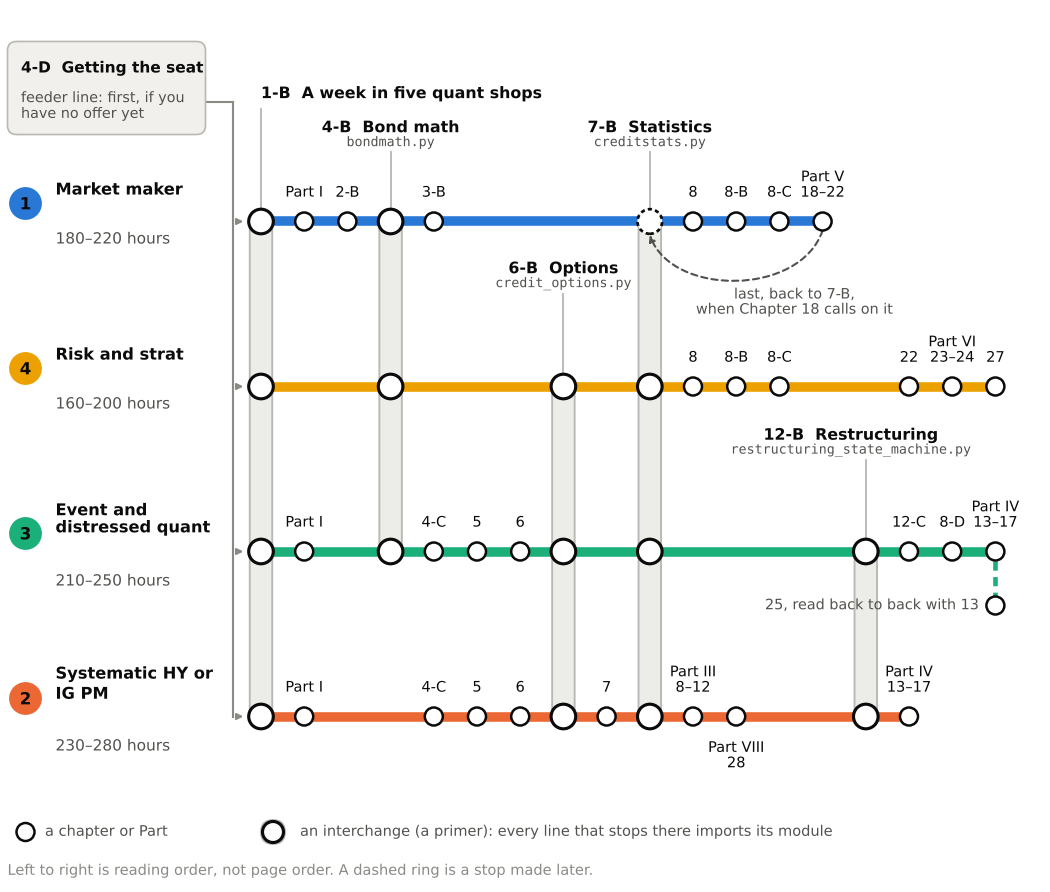
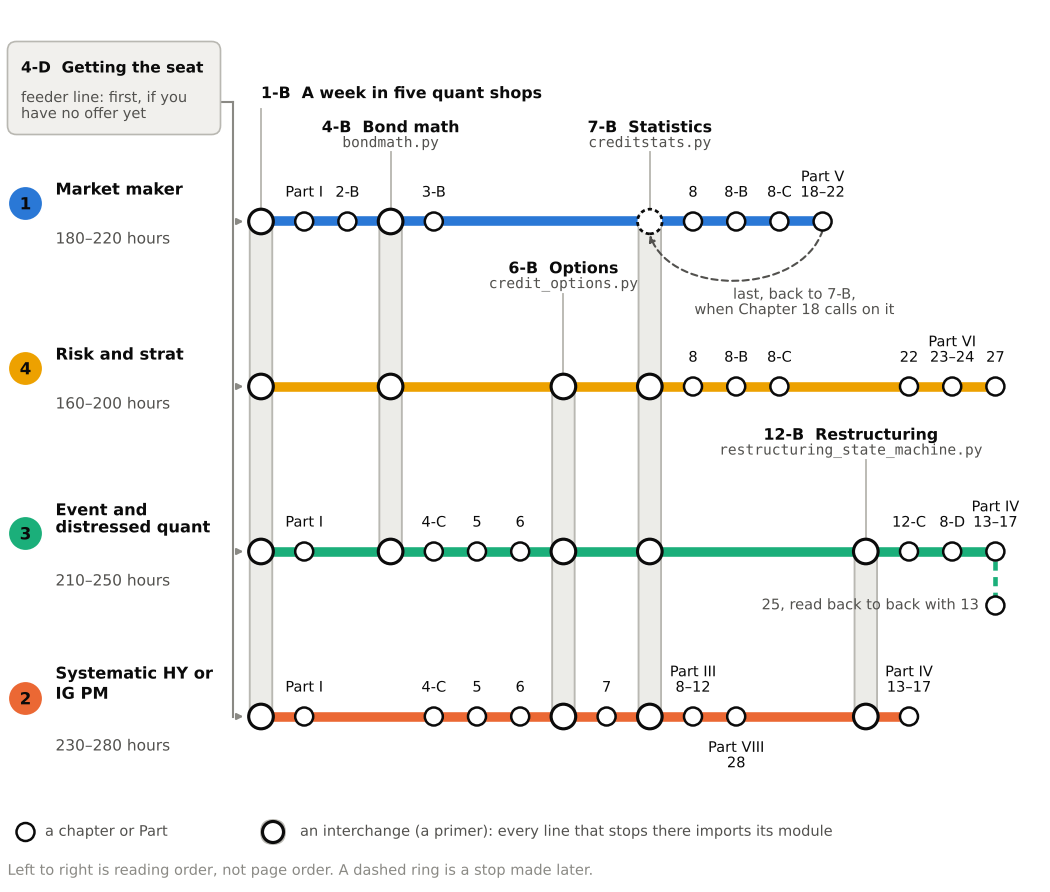
In-flight: editor-note fixes and new-chapter drafts
Claude-Session: https://claude.ai/code/session_01PHHQVL5vNoxjdDFeTkxsPq

diff --git a/tools/figures/00_02_.py b/tools/figures/00_02_.py
@@ -58,7 +58,7 @@ def arrow(ax, p0, p1, color, lw=1.0, ls="-", z=4, ms=6, alpha=1.0, style="-|>"):
                                  zorder=z, shrinkA=0, shrinkB=0, alpha=alpha))
 
 
-def badge(ax, x, y, text, color=ORANGE, r=1.55, fs=6.8, z=6):
+def badge(ax, x, y, text, color=ORANGE, r=1.55, fs=7.0, z=6):
     ax.add_patch(Circle((x, y), r, fc=color, ec="white", lw=0.8, zorder=z))
     ax.text(x, y - 0.1, text, ha="center", va="center", fontsize=fs, color=INK, fontweight="bold", zorder=z + 1)
 
@@ -83,7 +83,7 @@ def fig_dependency_map():
     for k, (yc, name, mod) in primers.items():
         rbox(ax, PX, yc - PH / 2, PW, PH, fc=BLUE_TINT, ec=BLUE, lw=1.2)
         ax.text(PX + 1.6, yc + 2.4, name, fontsize=7.8, fontweight="bold", color=INK, va="center")
-        ax.text(PX + 1.6, yc - 2.3, mod, fontsize=6.6, family=MONO, color=INK_2, va="center")
+        ax.text(PX + 1.6, yc - 2.3, mod, fontsize=7.0, family=MONO, color=INK_2, va="center")
 
     # Chapter 1-B: the first station of the RV path, above 4-B
     ybx = 94.6
@@ -118,8 +118,8 @@ def fig_dependency_map():
         rbox(ax, CX, yc - CH / 2, CW, CH, fc="white", ec=INK_2 if heavy else NEUTRAL, lw=1.4 if heavy else 0.9)
         ax.text(CX + 1.3, yc, lab, fontsize=7.8, fontweight="bold" if heavy else "normal", color=INK, va="center")
         if mod:
-            ax.text(CX + 10.4, yc - 0.1, mod, fontsize=6.9, family=MONO, color=INK_2, va="center")
-        ax.text(CX + CW - 1.0, yc, part, fontsize=6.8, color=MUTED, va="center", ha="right")
+            ax.text(CX + 10.4, yc - 0.1, mod, fontsize=7.0, family=MONO, color=INK_2, va="center")
+        ax.text(CX + CW - 1.0, yc, part, fontsize=7.0, color=MUTED, va="center", ha="right")
 
     # --- first-generation imports: primer -> chapters (table of section 0.2) ---------------------
     imports = {
@@ -156,7 +156,7 @@ def fig_dependency_map():
     badge(ax, PX + PW, primers["4B"][0] + 4.3, "2")
     ax.text(RX + 3.0, Y["c5"], "RV path\n(section 0.9)", fontsize=7.4, color=INK_2, va="center",
             linespacing=1.15)
-    ax.text(CX + CW + 2.0, Y["c1317"], "every chapter of\nPart IV sits behind 12-B", fontsize=7.0, color=MUTED,
+    ax.text(CX + CW + 2.0, Y["c1317"], "every chapter of\nPart IV sits behind 12-B", fontsize=7.2, color=MUTED,
             va="center", linespacing=1.15)
 
     # --- second generation: module sits on a module (violet dashed, in the gaps) ------------------
@@ -166,8 +166,6 @@ def fig_dependency_map():
         ya = Y[a] - CH / 2 - 0.15 if down else Y[a] + CH / 2 + 0.15
         yb = Y[b] + CH / 2 + 0.15 if down else Y[b] - CH / 2 - 0.15
         arrow(ax, (gx, ya), (gx, yb), VIOLET, lw=1.3, ls=(0, (2, 1.4)), ms=5.5, z=5)
-    ax.text(CX + CW + 1.8, (Y["c8"] + Y["c8D"]) / 2, "§8.4 rulers", fontsize=6.6, color=VIOLET, va="center",
-            alpha=0)  # (kept off: the legend carries the meaning)
     # 3-B <- section 3B.4
     rbox(ax, 24.0, Y["c3B"] - 2.7, 20.0, 5.4, fc=GREY_TINT, ec=NEUTRAL, lw=0.8)
     ax.text(25.2, Y["c3B"], "§3B.4 contract clocks", fontsize=7.0, color=INK_2, va="center")
@@ -177,7 +175,7 @@ def fig_dependency_map():
     lx = CX + CW + 2.0
     items = [
         (BLUE, "-", 1.5, "a chapter imports\na primer's module"),
-        (VIOLET, (0, (2, 1.4)), 1.5, "a module imports\nanother chapter's\nmodule"),
+        (VIOLET, (0, (2, 1.4)), 1.5, "a module builds on\nother work in the book\n(second generation)"),
         (ORANGE, "-", 1.0, "the RV path, in order\n(thinner)"),
     ]
     yy = 43.0
@@ -218,7 +216,7 @@ def fig_volatility_tax():
             linespacing=1.15)
     ax.text(exact_mean + 0.07, 12.15, "mean\n1.05", fontsize=8.5, color=INK_2, ha="left", va="bottom",
             linespacing=1.15)
-    ax.text(3.1, 8.6, f"{below:.0%} of paths end below\n1.00 (darker bars), though\nthe average is +5%", fontsize=8.3,
+    ax.text(3.15, 9.2, f"{below:.0%} of paths end\nbelow 1.00 (darker\nbars), though the\naverage is +5%", fontsize=8.3,
             color=INK_2, va="top", ha="right", linespacing=1.2)
     ax.set_xlim(0.0, 3.2)
     ax.set_ylim(0, 14.0)
@@ -328,7 +326,7 @@ def fig_seat_paths():
     def head(col_key, level_y, name, mod, ha="center", dx=0.0):
         x = cx(IX[col_key])
         ax.text(x + dx, level_y + 0.15, name, ha=ha, va="bottom", fontsize=7.6, fontweight="bold", color=INK)
-        ax.text(x + dx, level_y + 0.15, mod, ha=ha, va="top", fontsize=6.4, family=MONO, color=INK_2)
+        ax.text(x + dx, level_y + 0.15, mod, ha=ha, va="top", fontsize=7.0, family=MONO, color=INK_2)
 
     head("4B", 4.62 + YO, "4-B  Bond math", "bondmath.py")
     head("7B", 4.62 + YO, "7-B  Statistics", "creditstats.py")
@@ -344,11 +342,11 @@ def fig_seat_paths():
     ax.plot([cx(IX["12B"])] * 2, [Ys[3] + 0.09, 2.57 + YO + 0.04], color=NEUTRAL, lw=0.9, zorder=1)
 
     # 4-D feeder
-    rbox(ax, 0.05, 4.78 + YO, 1.32, 0.62, fc=GREY_TINT, ec=NEUTRAL, lw=0.8, r=0.06)
+    rbox(ax, 0.05, 4.78 + YO, 1.42, 0.62, fc=GREY_TINT, ec=NEUTRAL, lw=0.8, r=0.06)
     ax.text(0.14, 5.22 + YO, "4-D  Getting the seat", fontsize=7.4, fontweight="bold", color=INK, va="center")
-    ax.text(0.14, 4.97 + YO, "feeder line: first, if you\nhave no offer yet", fontsize=6.9, color=INK_2, va="center",
+    ax.text(0.14, 4.97 + YO, "feeder line: first, if you\nhave no offer yet", fontsize=7.0, color=INK_2, va="center",
             linespacing=1.1)
-    ax.plot([1.37, 1.55], [5.0 + YO, 5.0 + YO], color=MUTED, lw=1.0, zorder=1)
+    ax.plot([1.47, 1.55], [5.0 + YO, 5.0 + YO], color=MUTED, lw=1.0, zorder=1)
     ax.plot([1.55, 1.55], [5.0 + YO, Ys[2]], color=MUTED, lw=1.0, zorder=1)
 
     # MM: the return to 7-B, drawn as a dashed arc under the line
@@ -359,12 +357,12 @@ def fig_seat_paths():
     ax.add_patch(FancyArrowPatch(path=path, arrowstyle="-|>", mutation_scale=6, color=INK_2, lw=1.0,
                                  linestyle=(0, (3, 2)), zorder=4, shrinkA=0, shrinkB=0))
     ax.text(cx(12) + 0.1, y1 - 0.43, "last, back to 7-B,\nwhen Chapter 18 calls on it", ha="center", va="top",
-            fontsize=6.9, color=INK_2, linespacing=1.1)
+            fontsize=7.0, color=INK_2, linespacing=1.1)
     # DQ: Chapter 25 read back to back with 13
     y3 = Ys[3]
     ax.plot([cx(17), cx(17)], [y3 - 0.06, y3 - 0.33], color=AQUA, lw=2.2, ls=(0, (2, 1.4)), zorder=2)
     ax.add_patch(Circle((cx(17), y3 - 0.36), 0.06, fc="white", ec=INK, lw=1.2, zorder=5))
-    ax.text(cx(17) - 0.11, y3 - 0.36, "25, read back to back with 13", ha="right", va="center", fontsize=6.9,
+    ax.text(cx(17) - 0.11, y3 - 0.36, "25, read back to back with 13", ha="right", va="center", fontsize=7.0,
             color=INK_2)
 
     # key
@@ -436,13 +434,13 @@ def fig_ninety_days():
         else:
             ax.add_patch(Rectangle((a + 0.004, yspine - sh / 2), b - a - 0.008, sh, fc="white", ec=MUTED, lw=0.6,
                                    hatch="/////", zorder=2))
-    ax.text(X(0), yspine - 0.15, "day 0: Sun 28 Jun", fontsize=6.9, color=INK_2, va="top", ha="left")
-    ax.text(X(86) - 0.04, yspine - 0.15, "day 86: Tue 22 Sep,\nfirst day on the desk", fontsize=6.9, color=INK_2, va="top",
+    ax.text(X(0), yspine - 0.15, "day 0: Sun 28 Jun", fontsize=7.0, color=INK_2, va="top", ha="left")
+    ax.text(X(86) - 0.04, yspine - 0.15, "day 86: Tue 22 Sep,\nfirst day on the desk", fontsize=7.0, color=INK_2, va="top",
             ha="right", linespacing=1.1)
-    ax.text(X(86) + 0.06, yspine - 0.15, "days 87\u201390:\nfunded by sleep", fontsize=6.9, color=INK_2, va="top",
+    ax.text(X(86) + 0.06, yspine - 0.15, "days 87\u201390:\nfunded by sleep", fontsize=7.0, color=INK_2, va="top",
             ha="left", linespacing=1.1)
     arrow(ax, (X(90) + 0.07, yspine), (X(90) + 0.62, yspine), INK_2, lw=1.2, ms=8, z=3)
-    ax.text(X(90) + 0.08, yspine + 0.1, "\u00a73B.8:\nthe ninety\ndays after", fontsize=6.9, color=INK_2,
+    ax.text(X(90) + 0.08, yspine + 0.1, "\u00a73B.8:\nthe ninety\ndays after", fontsize=7.0, color=INK_2,
             va="bottom", ha="left", linespacing=1.1)
 
     # checkpoints on the spine
@@ -460,13 +458,13 @@ def fig_ninety_days():
     ax.plot([sx], [yspine], marker="*", markersize=11, color=INK, markeredgecolor="white", markeredgewidth=0.6,
             zorder=6)
     ax.plot([sx, sx], [yspine + 0.1, yspine + 0.52], color=INK_2, lw=0.8, zorder=5)
-    ax.text(sx + 0.02, yspine + 0.55, "day 86: mock interview,\nor a mock morning\nif you have the seat", fontsize=6.9,
+    ax.text(sx + 0.02, yspine + 0.55, "ends the last stretch:\nmock interview, or a\nmock morning if you\nhave the seat", fontsize=7.0,
             color=INK, ha="right", va="bottom", linespacing=1.1, fontweight="bold")
 
     # projects and checkpoints below the line
     low_top = 1.70
     l1 = ["Edge Ledger rows drafted (\u00a73.5)"]
-    l2 = ["Project 1: TRACE panel, Roll spread", "Project 6: DD-to-PD map"]
+    l2 = ["Project 1: TRACE, Roll spread", "Project 6: DD-to-PD map"]
     l3 = ["Project 2: Priming Risk Score", "Project 4: RFQ quoting game", "4-D's sixty tagged problems"]
     for (d0, d1, _, _), items in zip(wins, (l1, l2, l3)):
         for r, txt in enumerate(items):
@@ -494,7 +492,7 @@ def fig_hand_history():
     # left: Theo's July, from the rows of the chapter's hand_history listing (checked rows only)
     buckets = [(0.5, 7, 10), (0.7, 2, 3), (0.9, 9, 12)]       # stated confidence, right, checked
     ax.plot([0.4, 1.0], [0.4, 1.0], color=NEUTRAL, lw=1.2, ls=(0, (4, 3)), zorder=1)
-    ax.text(0.405, 0.46, "right as often\nas he said", fontsize=8, color=MUTED, rotation=0, va="bottom", ha="left",
+    ax.text(0.405, 0.37, "dashed: right as often\nas he said", fontsize=8, color=MUTED, rotation=0, va="top", ha="left",
             linespacing=1.1)
     for conf, k, n in buckets:
         p = k / n
@@ -529,6 +527,7 @@ def fig_hand_history():
     bx.axhline(p, color=BLUE, lw=0.9, ls=(0, (1.5, 2.5)), zorder=2)
     bx.axhline(0.60, color=INK_2, lw=0.9, ls=(0, (4, 3)), zorder=2)
     bx.text(158, 0.60 - 0.012, "0.60", fontsize=8, color=INK_2, ha="right", va="top")
+    bx.text(158, p + 0.012, "hit rate 0.72", fontsize=8, color=INK_2, ha="right", va="bottom")
     for nn, tag in ((25, "a month"), (100, "a quarter")):
         h = 2 * np.sqrt(p * (1 - p) / nn)
         bx.plot([nn, nn], [p - h, p + h], color=INK, lw=1.2, zorder=4)

diff --git a/book_src/13_ch13b_the_autopsy_room_lmt_docket_diaries.md b/book_src/13_ch13b_the_autopsy_room_lmt_docket_diaries.md
@@ -24,9 +24,9 @@ Kaz Lind pulled the Incora folder toward them, opened it to the first page, and 
 
 Theo wrote the question at the top of his pad, because Ines would ask it again on Monday: *can a ruling be a feature, and can an exclusion be priced on the day the deal closes?*
 
-By the end of this chapter you will be able to read a docket as a time series rather than a story; to label a ruling by its direction for the excluded holder and give it a log-odds jump you can defend; to say, for each of twelve real liability-management cases from 2020 to 2026, which Priming Risk Score features would have fired and when, and what the excluded holder's markout was; to recognize the pod pair hiding inside every one of them (long the likely participant, short the likely excluded) and explain why that pair's P&L is, in the end, the excluded leg's markout; and to write the litigation map down as a Markov chain whose transition matrix jumps on ruling dates. You will also know why most of this is less certain than it looks, which is the part the twelve folders teach best.
+By the end of this chapter you will be able to read a docket as a time series rather than a story; label a ruling by its direction for the excluded holder and give it a log-odds jump; say, for twelve real cases from 2020 to 2026, which Priming Risk Score features would have fired and what the excluded holder's markout was; see why a pod's pair inside each case earns exactly that markout; and write the litigation map as a Markov chain whose transitions jump on ruling dates. You will also see why all of it is less certain than it looks.
 
-> **Prerequisites.** Chapter 12-B §12B.3 (thresholds) and §12B.4 (the out-of-court menu as transitions); Chapter 13 §13.3.1 (Serta in the formula), §13.5 (co-ops, and the Pair Book scene that opened PB-08), §13.8 (the Priming Risk Score) and §13.9 (the Incora board and the scoreboard table); Chapter 14 §14.4 (recovery as a mixture over coalition membership), §14.6 (courts as a regime variable) and §14.7 (the Hamilton filter). This chapter retells none of those cases. Serta, Lumen, Incora, Saks, Trinseo, Robertshaw and Hertz each have a home elsewhere, and here they appear only as dated entries plus two closing lines.
+> **Prerequisites.** Chapter 12-B §12B.3 (thresholds) and §12B.4 (the out-of-court menu as transitions); Chapter 13 §13.3.1 (Serta in the formula), §13.5 (co-ops, and the Pair Book scene that opened PB-08), §13.8 (the Priming Risk Score) and §13.9 (the Incora board and the scoreboard table); Chapter 14 §14.4 (recovery as a mixture over coalition membership), §14.6 (courts as a regime variable) and §14.7 (the Hamilton filter). Cases told elsewhere appear here only as dated entries and closing lines.
 
 ## 13B.1 How to Read a Docket
 
@@ -36,39 +36,35 @@ Theo pulled ROBO's 4,100 rows up on the wall screen and scrolled, slowly, so tha
 
 "'For this occasion,'" said Theo. "A lawyer from out of state, admitted for one case. Incora has dozens of them. Each one files a motion, gets an order, and somebody files a certificate saying everyone was served with both." He stopped scrolling. "Most of a docket is the court proving to itself that it told everyone."
 
-He walked Kaz through where dockets live, because the twelve folders came from five different places. Federal cases, including every US bankruptcy here, sit on PACER, which charges by the page and has opinions about automated readers. New York's commercial cases, where Boardriders fought over "open market purchase," sit on the state's own electronic filing system. English judgments, Thames Water's among them, are published by the National Archives as Find Case Law. And Altice France's most important "rulings" were not made by a court at all. They were made by the EMEA Credit Derivatives Determinations Committee, which publishes its decisions as PDFs on its own website.
+The twelve folders came from five places. Federal cases, every US bankruptcy here included, sit on PACER, which charges by the page. New York's commercial cases sit on the state's own filing system. English judgments are published by the National Archives as Find Case Law. And Altice France's most important "rulings" came from no court at all, but from the EMEA Credit Derivatives Determinations Committee, which posts its decisions as PDFs.
 
-Then he pulled up one entry, the Incora bankruptcy judge's oral ruling of 10 July 2024, and showed Kaz that an entry has four clocks on it. It was *filed* when someone delivered paper to the court. It was *entered* when the clerk put it on the docket. It was *argued* on the hearing day. It was *decided* when the judge said or signed the decision, and for Incora those were two different days: an oral ruling from the bench on 10 July 2024 and a written report and recommendation on 17 January 2025. Serta had the same split a year earlier: a bench ruling for the borrower on 28 March 2023, and a written opinion after trial that June.
+Then he showed Kaz that an entry has four clocks on it. It is *filed* when paper reaches the court, *entered* when the clerk dockets it, *argued* on the hearing day, and *decided* when the judge says or signs the decision. For Incora, decided meant two days: an oral ruling from the bench on 10 July 2024 and a written report and recommendation on 17 January 2025. Serta had the same split: a bench ruling for the borrower on 28 March 2023, a written opinion after trial that June.
 
 "Which one is the event?" said Kaz.
 
 "The first moment the market could know," said Theo. "Sometimes that's a reporter in the courtroom. Sometimes it's a law firm's client alert the next morning. Almost never is it the entry date."
 
-Then he added the column ROBO had not built: *direction*. The desk borrows its convention from the courts dossier behind this chapter. A ruling scores $+1$ if it favours the excluded or non-consenting holders, $-1$ if it favours the majority, the debtor or the people being released, and $0$ if it is mixed. Judge Isgur's 10 July 2024 ruling for the Incora minority is $+1$. The district court's reversal of 8 December 2025 is $-1$. The English Court of Appeal's Thames Water judgment, which upheld the plan but refused any "hard-edged rule" that out-of-the-money creditors could simply be ignored, is $0$.
+Then he added the column ROBO had not built: *direction*. A ruling scores $+1$ if it favours the excluded or non-consenting holders, $-1$ if it favours the majority, the debtor or the people being released, and $0$ if it is mixed. Judge Isgur's 10 July 2024 ruling for the Incora minority is $+1$; the district court's reversal of 8 December 2025 is $-1$.
 
 "So the label is one number per ruling," said Kaz. "Then what's the feature?"
 
 "The feature is what the ruling does to the odds," said Ines, from the door.
 
-> **Math, Gently.** *Odds, log-odds, and a ruling as a jump.* A probability of 0.5 is odds of 1 to 1; 0.8 is odds of 4 to 1. The log-odds, or *logit*, is the natural log of the odds: $\operatorname{logit}(p) = \ln\big(p/(1-p)\big)$. At 0.5 it is 0; at 0.8 it is about 1.39; it runs from minus infinity to plus infinity while $p$ stays between 0 and 1. That is why the desk adds a ruling's effect on this scale and not on probability itself: you can add any number to a log-odds and convert back, $p = 1/(1+e^{-\text{logit}})$, and you will always get a legal probability. Add 0.3 to a probability of 0.9 and you get nonsense. Picture a dial with no end stops, wired to a needle that can only move between 0 and 1; turning the dial a click moves the needle a lot near the middle and barely at all near the ends. *A tiny worked number.* Suppose that, before the Fifth Circuit's *Serta* opinion of 31 December 2024, a reader gives the excluded lenders an even chance in an "open market purchase" dispute: $p = 0.5$, log-odds 0. The reader then reads the opinion and assigns it a jump of $+1.0$ for the excluded side *(illustrative)*. The new log-odds is 1.0 and the new probability is $1/(1+e^{-1}) \approx 0.73$. The same click from a starting point of 0.9 lands at about 0.96. Written for the desk's variable $\theta_w$, the chance that a priming deal under wording $w$ *survives* challenge, the same ruling is a jump of $-1.0$, from 0.5 to 0.27. The full version, with one jump per ruling and per wording class, is §14.6.1.
+> **Math, Gently.** *Odds, log-odds, and a ruling as a jump.* A probability of 0.5 is odds of 1 to 1; 0.8 is odds of 4 to 1. The log-odds, or *logit*, is the natural log of the odds: $\operatorname{logit}(p) = \ln\big(p/(1-p)\big)$. At 0.5 it is 0; at 0.8 it is about 1.39; it runs from minus infinity to plus infinity while $p$ stays between 0 and 1. So the desk adds a ruling's effect on this scale: any number added to a log-odds converts back, through $p = 1/(1+e^{-\text{logit}})$, to a legal probability, whereas 0.3 added to a probability of 0.9 is nonsense. Picture a dial with no end stops wired to a needle that moves only between 0 and 1: a click moves the needle a lot near the middle and barely at all near the ends. *A tiny worked number.* Before the Fifth Circuit's *Serta* opinion of 31 December 2024, a reader gives excluded lenders in an "open market purchase" dispute an even chance: log-odds 0. Having read the opinion, the reader assigns it a jump of $+1.0$ for the excluded side *(illustrative)*. The new log-odds is 1.0 and the new probability is $1/(1+e^{-1}) \approx 0.73$. The same click from a starting point of 0.9 lands at about 0.96. Written for the desk's variable $\theta_w$, the chance that a priming deal under wording $w$ *survives* challenge, the same ruling is a jump of $-1.0$, from 0.5 to 0.27. The full version, with one jump per ruling and per wording class, is §14.6.1.
 
-The jump is a judgment, and the folder records whose judgment it is and on what day. Nineteen rulings are not enough to fit anything, which is the subject of §13B.7. They are enough to keep a disciplined diary.
+The jump is a judgment, and the folder records whose and on what day. Nineteen rulings are too few to fit anything (§13B.7) and enough to keep a disciplined diary.
 
-That left the two lines Ines wanted at the bottom of every folder. Theo wrote them on the whiteboard as headings, and they close each diary below.
+That left the two lines Ines wanted at the bottom of every folder. The first is *PRS flags*: which features of Chapter 13's Priming Risk Score would have fired, and when. Some are in the §13.2.1 vector already (`loan_px`, `runway_months`, `holder_hhi`, `coop_reported`, `unsub_capacity_pct_ev`, `buyback_exception`, `integration_gap`); the folders propose new ones as they go. The second is *Excluded markout*: what happened to the price of the tranche left outside the door, against the tranche that went through it.
 
-The first is *PRS flags*: which features of Chapter 13's Priming Risk Score would have fired, and on what date. Some are already in the §13.2.1 vector: `loan_px`, `runway_months`, `holder_hhi`, `coop_reported`, `unsub_capacity_pct_ev`, `buyback_exception`, `sponsor_repeat_lme`, `integration_gap`. Some are new, and the folders will propose them as they go.
+> **Math, Gently.** *A markout is an average of what happened next, given who you were.* Ines calls a markout "the hand history": the price some time after a trade minus the price at the trade, averaged over many trades. Here the "trade" is a liability-management deal, and what sorts the hands is participation status. Write $P_{t_0}$ for the excluded tranche's price on the last day before the deal became knowable and $P_{t_0+h}$ for its price $h$ later. The excluded markout is the conditional expectation $M^{\text{excl}}(h) = \mathbb{E}\big[P_{t_0+h} - P_{t_0} \mid \text{excluded}\big]$, and the participant's is the same with the condition flipped. *A tiny worked number.* Two holders own the same first-lien loan at 70 *(illustrative)*. One is invited, swaps into super-priority paper and marks 90 a month later; the other is not, and marks 40. Same loan, same lien, same company: markouts of $+20$ and $-30$, a coalition gap of 50 points. Twelve folders give no expectation, only a dozen dated points over different horizons, mostly vendor quotes rather than prints. The full version, for dealer trades, is Chapter 2-B and Chapter 18.
 
-The second is *Excluded markout*: what happened to the price of the tranche left outside the door, set against the tranche that went through it.
-
-> **Math, Gently.** *A markout is an average of what happened next, given who you were.* Ines calls a markout "the hand history." For a trade, it is the price some time after the trade minus the price at the trade, averaged over many trades: the question it answers is whether the other side knew something. Here the "trade" is a liability-management deal, and the thing that sorts the hands is participation status. Write $P_{t_0}$ for the excluded tranche's price on the last day before the deal became knowable and $P_{t_0+h}$ for its price $h$ later. The excluded markout is the conditional expectation $M^{\text{excl}}(h) = \mathbb{E}\big[P_{t_0+h} - P_{t_0} \mid \text{excluded}\big]$, and the participant's is the same with the condition flipped. *A tiny worked number.* Two holders own the same first-lien loan at 70 *(illustrative)*. One is invited, swaps into super-priority paper and marks 90 a month later; the other is not, and marks 40. Same loan, same lien, same company: markouts of $+20$ and $-30$, a coalition gap of 50 points. Twelve folders do not give an expectation. They give a dozen dated points, from different seats, measured over different horizons, mostly from vendor quotes rather than prints. The full version, for dealer trades, is Chapter 2-B and Chapter 18.
-
-"There's one more reason to care," said Ines. "Dov's pod across town runs these as pairs." Every folder that follows names the pair a pod would have put on: long the paper likely to be inside the deal and short the paper likely to be left out, or long the operating company and short the holding company, hedged so that default and the sector cancel. Ines had read enough of the Vantress Pair Book to see the pattern before the folders proved it. Once the hedge has removed default and sector, what is left is participation status plus a judge. The pair's P&L is the excluded leg's markout, with a sign on it.
+"One more reason to care," said Ines. "Dov's pod across town runs these as pairs." Each folder names the pair a pod would have put on: long the paper likely inside the deal, short the paper likely left out, hedged so that default and the sector cancel. What the hedge leaves is participation status plus a judge, so the pair's P&L is the excluded leg's markout with a sign on it.
 
 Used in / builds on: §12B.4 (the menu of out-of-court moves, here as observed transitions), §13.2.1 and §13.8 (the PRS vector these flags come from), §14.6.1 (the log-odds jump, in full), Chapter 25 §25.6 (the docket as an event stream, where the feed ROBO built gets rebuilt properly), Appendix E (the court is a random variable with timestamps).
 
 ## 13B.2 The US Diaries, in Deal Order
 
-Mags dealt the US folders in the order the deals were done, not the order they died, because the order they were done is the order the market learned. Each one gets the same treatment: a diary of dated entries, about a page long, then three lines in Theo's hand. Ines read the entries aloud and stopped at each date to ask what the room would have done with only that much paper.
+Mags dealt the US folders in the order the deals were done, which is the order the market learned. Each gets a diary of dated entries and three lines in Theo's hand. Ines read the entries aloud and stopped at each date to ask what the room would have done with only that much paper.
 
 > **Docket Diary.** *Revlon BrandCo, 7 May 2020 to 3 April 2023.* **7 May 2020:** Revlon signs a BrandCo credit agreement with Jefferies as agent: \$815mm of new-money term loans and a \$950mm roll-up commitment that lets lenders in the 2016 term loan, a \$1.8bn facility with Citibank as agent, swap at par into new 2025 paper. Elizabeth Arden and other brand intellectual property move to BrandCo subsidiaries that do not guarantee the 2016 loan; Revlon delivers a solvency certificate. By the end of May, \$846mm of 2016 loans have rolled up. **August 2020:** the 2016 loan trades at "20 to 30" cents, in the Second Circuit's later words. **11 August 2020:** Citibank, as agent, wires about \$894mm of the 2016 lenders' principal by mistake; that story is Chapter 27's (§27.4, the Long Scene "The default field"), and it gets one sentence here. **12 August 2020:** excluded 2016 lenders authorize UMB Bank to sue, alleging insolvency "by as much as \$1.71 billion"; the complaint is never served and is dismissed without prejudice on 6 November. **15 June 2022:** Chapter 11 in the Southern District of New York. **21 February 2023:** an amended restructuring support agreement adds 2016 lenders holding over 94% of that loan. **3 April 2023:** plan confirmed. As summarized by debtor's counsel and press reports, BrandCo B-2 lenders take 82% of the equity and of a \$670mm rights offering, 2016 and B-3 lenders 18%, and non-electing 2016 and B-3 lenders share a \$56mm cash pool; the 2016 litigation is resolved "conclusively and consensually." *The Ad Hoc Group, through counsel: "We note for the record that we were not wired anything. We note it with regret."*
 >

diff --git a/state/appZ/27_ch27_system_architecture_and_asics.md b/state/appZ/27_ch27_system_architecture_and_asics.md
@@ -20,3 +20,43 @@ NOTE (for the editor): The exercise says "rerun block 3 with $c_s^2 = 1$." Block
 
 **If you got this wrong, read:** §27.5.1 (both parts of the queues box, then the Full Derivation and the tail quantile); the usage note under Listing 27.3 on feeding the stress hour's load rather than the day's; §27.1.1's grading of the cold-open card.
 
+**Z.27.2: Add LQD and CDX IG to the table**
+
+**Answer:** By the method of §27.6.1, with LQD as the bond's only credit hedge, $\beta_{i,\text{LQD}} = P_i D^{\text{spr}}_i \kappa^{\text{IG}}_i/(H_{\text{LQD}} D_{\text{LQD}}) \approx 1.30$ bond points per LQD dollar; CDX IG on the same footing gives $-0.180$ points per bp. In one row with TY the three must share the work. Split the credit exposure evenly between LQD and CDX IG and take LQD's rate content out of the TY beta, and the row is $\boldsymbol\beta_i = (0.158,\ 0.648,\ -0.0898)$, in bond points per TY point, per LQD dollar and per CDX IG basis point. With $\theta_i = 0.14$ points and the stress-window volatilities below, the budget splits as $\theta_{ij} = (0.014,\ 0.086,\ 0.040)$ points, so the thresholds are 0.089 TY points, \$0.133 of LQD and 0.44 bp of CDX IG. A flight to quality (TY up 6/32, LQD up \$0.09, CDX IG 1.25 bp wider) moves fair value by $-0.024$ points: the joint rule stays quiet, and the per-instrument rule pulls on TY and on CDX. In 200,000 fat-tailed simulated moves the joint rule pulls in 33% of windows and the per-instrument rule in 70%. False pulls are 37% of all windows (53% of the cheap rule's pulls), and the cheap rule misses no joint pull: zero in each of three seeds.
+
+**How:** Inputs, all illustrative: the cold-open bond ($P_i = 95$, $D^{\text{spr}}_i = 8$, 130 bp, $\text{DV01}_i = 0.076$ points per bp, $\kappa^{\text{rate}} = 0.9$); LQD at \$108 with a duration of 8.3, so \$0.0896 per bp; the IG cash index at 85 bp; CDX IG at 55 bp. The DTS betas are $\kappa^{\text{IG}} = 130/85 = 1.53$ and $\kappa^{\text{CDX}} = 130/55 = 2.36$, so
+
+$$
+\beta_{i,\text{LQD}} = \frac{95 \times 8 \times 1.53}{108 \times 8.3} = 1.30, \qquad \beta_{i,\text{CDX}} = -\frac{95 \times 8 \times 2.36}{10^{4}} = -0.180 .
+$$
+
+Each formula assumes its instrument is the only credit hedge, and LQD's price also carries eight years of rate duration. In a shared row, give each credit hedge half the credit exposure, and read the IG spread change from LQD as $-\Delta H_{\text{LQD}}/0.0896 + \Delta H_{\text{TY}}/0.065$; the second term comes off the TY beta, $1.052 - \tfrac12 (1.53)(0.076/0.065) = 0.158$. Check the row on pure moves: a 1 bp rally gives $0.158(0.065) + 0.648(0.0896) = 0.0684 = 0.9 \times 0.076$, and a 1 bp IG widening gives $-0.116 = -0.076 \times 1.53$. Then allocate as in §27.6.1: $\theta_{ij} = c\,|\beta_{ij}|\,\sigma_j$ with $c = \theta_i/\sum_j |\beta_{ij}|\sigma_j = 0.886$, and $\tau_{ij} = \theta_{ij}/|\beta_{ij}| = c\,\sigma_j$. Our covariance for one stress window: volatilities of 0.10 TY points, \$0.15 of LQD and 0.5 bp of CDX IG; correlations TY–LQD $+0.75$, TY–CDX $+0.35$ (TY rallies when CDX widens) and LQD–CDX $-0.25$. Fat tails come from Listing 27.4's chi-squared(4) scale mixture, with moves rounded to grids of 1/64, \$0.01 and 0.05 bp. This extends Listing 27.4 from two hedges to three. The zero-miss count is the triangle inequality at work, not luck: it holds draw by draw, whatever the covariance.
+
+**The trap:** Pasting the three one-hedge betas into one row (1.05, 1.30, $-0.180$). That counts rates twice (TY and LQD) and credit twice (LQD and CDX): a 1 bp rally reads as 0.185 points instead of 0.068, and a 1 bp IG widening as $-0.232$ instead of $-0.116$. The cheap rule built on that row pulls in 95% of stress windows, and its joint rule still misses about one true pull in a thousand windows, because it weighs offsetting moves wrongly. The safety theorem protects you relative to the $\boldsymbol\beta$ you wrote down, not relative to the bond.
+
+**If you got this wrong, read:** §27.6.1 (the trigger table, the "two detours" box, the theorem and the paragraph on allocating the budget); Listing 27.4 in Appendix F, which this exercise extends; Chapter 8 for the empirical rate beta and the DV01 ratios.
+
+**Z.27.3: The J.Crew drop-down as rows**
+
+**Answer:** The rows are below. A backtest of Chapter 25's covenant-flag signal must use the knowledge-time snapshot at its decision time, $Q(k, a;\ t^{v} \le t,\ t^{k} = t)$, and must read the parser's output the same way. If the vendor's "point-in-time" file is valid-time only, it answers $Q(\cdot;\ t^{v} = t,\ t^{k} = \text{now})$. The IP then leaves the collateral on the transfer's effective date rather than when anyone outside the company knew, the signal fires before the 5 December 2016 disclosure, and the backtest trades the term loan at prices from before the market had read the filing. Every later correction leaks backwards too: a 2019 re-parse, or a `jcrew_blocker` field back-filled onto agreements signed before the move that named it, reads as if it had been known all along.
+
+Notation: $t_0$ is the date the desk onboarded the loan, $t_x$ the transfer's effective date as the filing states it (on or before 2016-12-05), and $k_1$ = 2016-12-05 18:00, when the desk's event feed confirmed it *($t_0$ and the 18:00 are illustrative; keys are internal surrogates)*. ASSET-JC-USIP is the interest in the US marks that the 2017 notes were later secured on (72.04%, per Chapter 13).
+
+| Key | Attribute | Value | Valid from | Valid to | Known from | Known to |
+| :--- | :--- | :--- | :--- | :--- | :--- | :--- |
+| ASSET-JC-USIP | owner | ENT-JC-LOANPARTY | $t_0$ | ∞ | $t_0$ | $k_1$ |
+| ASSET-JC-USIP | owner | ENT-JC-LOANPARTY | $t_0$ | $t_x$ | $k_1$ | ∞ |
+| ASSET-JC-USIP | owner | ENT-JC-DOMBRAND | $t_x$ | ∞ | $k_1$ | ∞ |
+| INS-JC-TL | collateral | all assets incl. ASSET-JC-USIP | $t_0$ | ∞ | $t_0$ | $k_1$ |
+| INS-JC-TL | collateral | all assets incl. ASSET-JC-USIP | $t_0$ | $t_x$ | $k_1$ | ∞ |
+| INS-JC-TL | collateral | all assets excl. ASSET-JC-USIP | $t_x$ | ∞ | $k_1$ | ∞ |
+| ENT-JC-DOMBRAND | parent | ENT-JC-NGRS (non-guarantor restricted sub) | $t_x$ | ∞ | $k_1$ | ∞ |
+| ENT-JC-DOMBRAND | obligor_role | unrestricted; not a guarantor or grantor of INS-JC-TL | $t_x$ | ∞ | $k_1$ | ∞ |
+| EVT-JC-2016-12 | event | drop_down: ASSET-JC-USIP to ENT-JC-DOMBRAND; INS-JC-TL collateral reduced; source: company filing, 2016-12-05 | $t_x$ | n/a | $k_1$ | ∞ |
+
+**How:** Follow the Serta pattern of §27.3.3. Rows the desk believed before $k_1$ are closed in knowledge time at $k_1$, never edited, which is invariant (I2); the corrected history and the new facts all open at $k_1$, whatever their valid dates. The guarantor map is the dated graph of §27.3.1: the new box ENT-JC-DOMBRAND gets a dated arrow to its parent and a role outside the obligor group, so the question "is the IP inside the term lenders' collateral?" has two dated answers. If the filing dates the two hops separately (loan party to the non-guarantor restricted subsidiary, then on to the unrestricted one), each hop gets its own owner row and its own event row. The July 2017 exchange is a second event: it creates the 13% notes of J.Crew Brand, LLC and J.Crew Brand Corp. with their own collateral row, and retires part of the PIK notes. For the backtest, a decision at noon on 5 December sees the IP still with the loan party, even though $t^{v} \ge t_x$; a decision on the morning of 6 December sees it gone. Chapter 25's signal is built from the parsed capacity vector and the obligor map, so it inherits both knowledge times: the master's, and that of the parse it read.
+
+**The trap:** Stamping the new rows "known from $t_x$" because that is when the transfer happened. That one choice turns the archive into the wiki: the drop-down looks known before it was disclosed, and the signal looks prescient for the same reason Theo's Serta backtest did. The other slip is to edit the old owner row's valid-to in place, which erases what the desk believed on 4 December.
+
+**If you got this wrong, read:** §27.3.2 (the two invariants, the theorem and the corollary on valid-time-only "point-in-time" files); §27.3.3 (Serta as rows, and Mags's three questions); §27.3.1 for the dated obligor graph; Chapter 13's J.Crew Docket Diary for the facts; §25.9 on when a text signal is executable.
+
